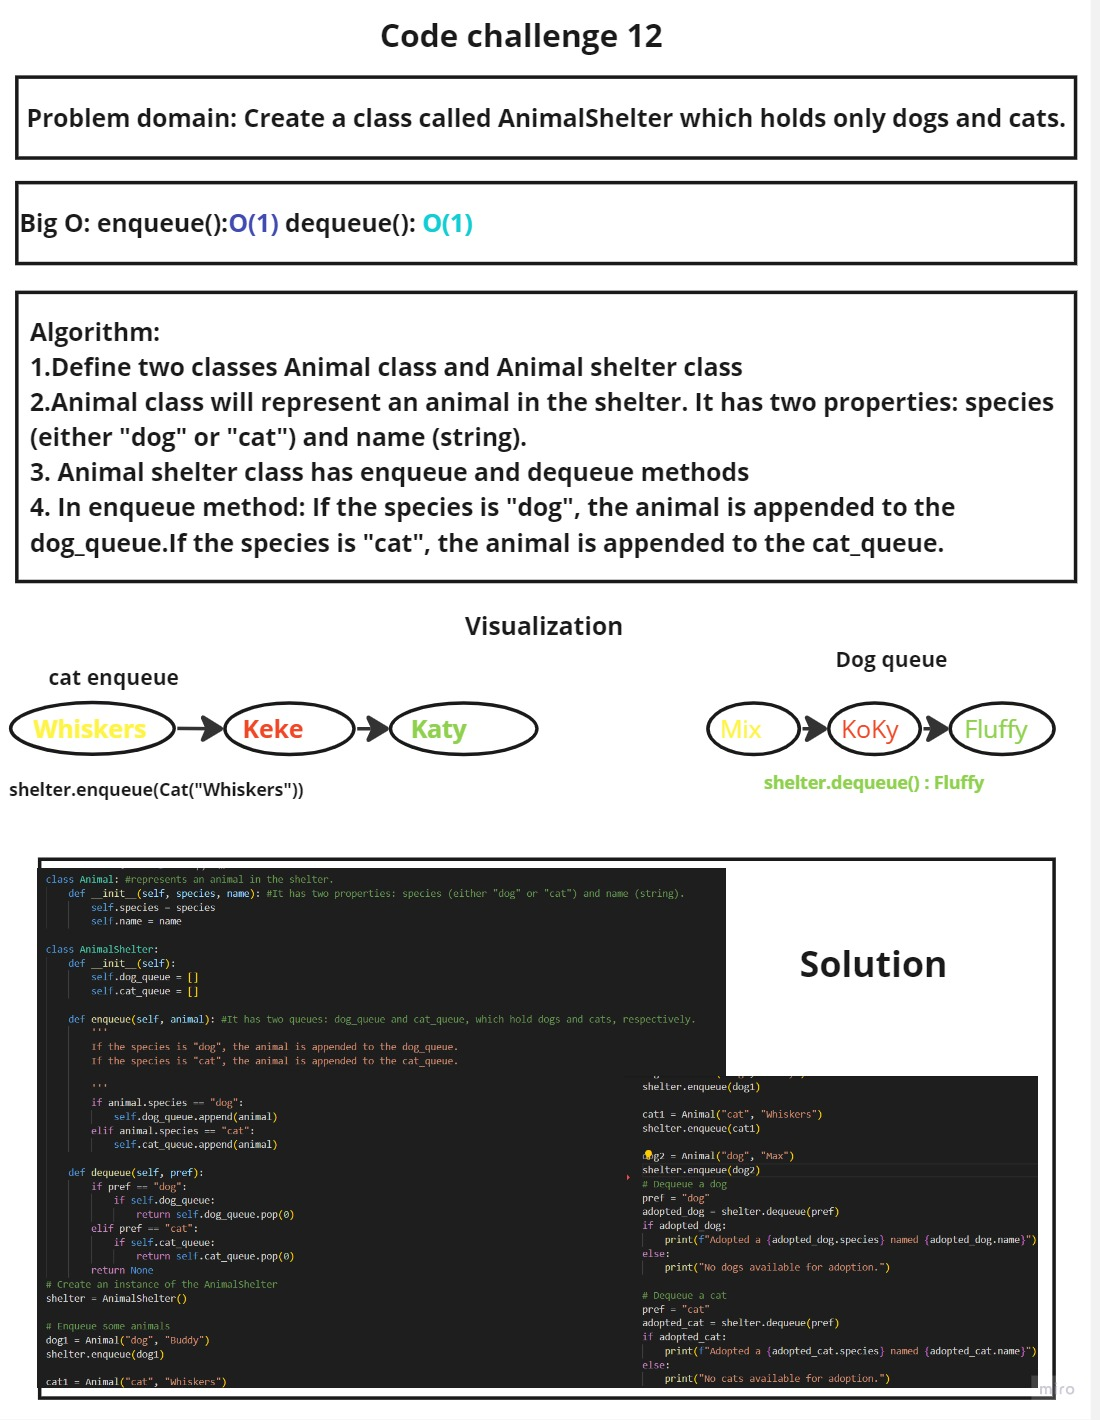
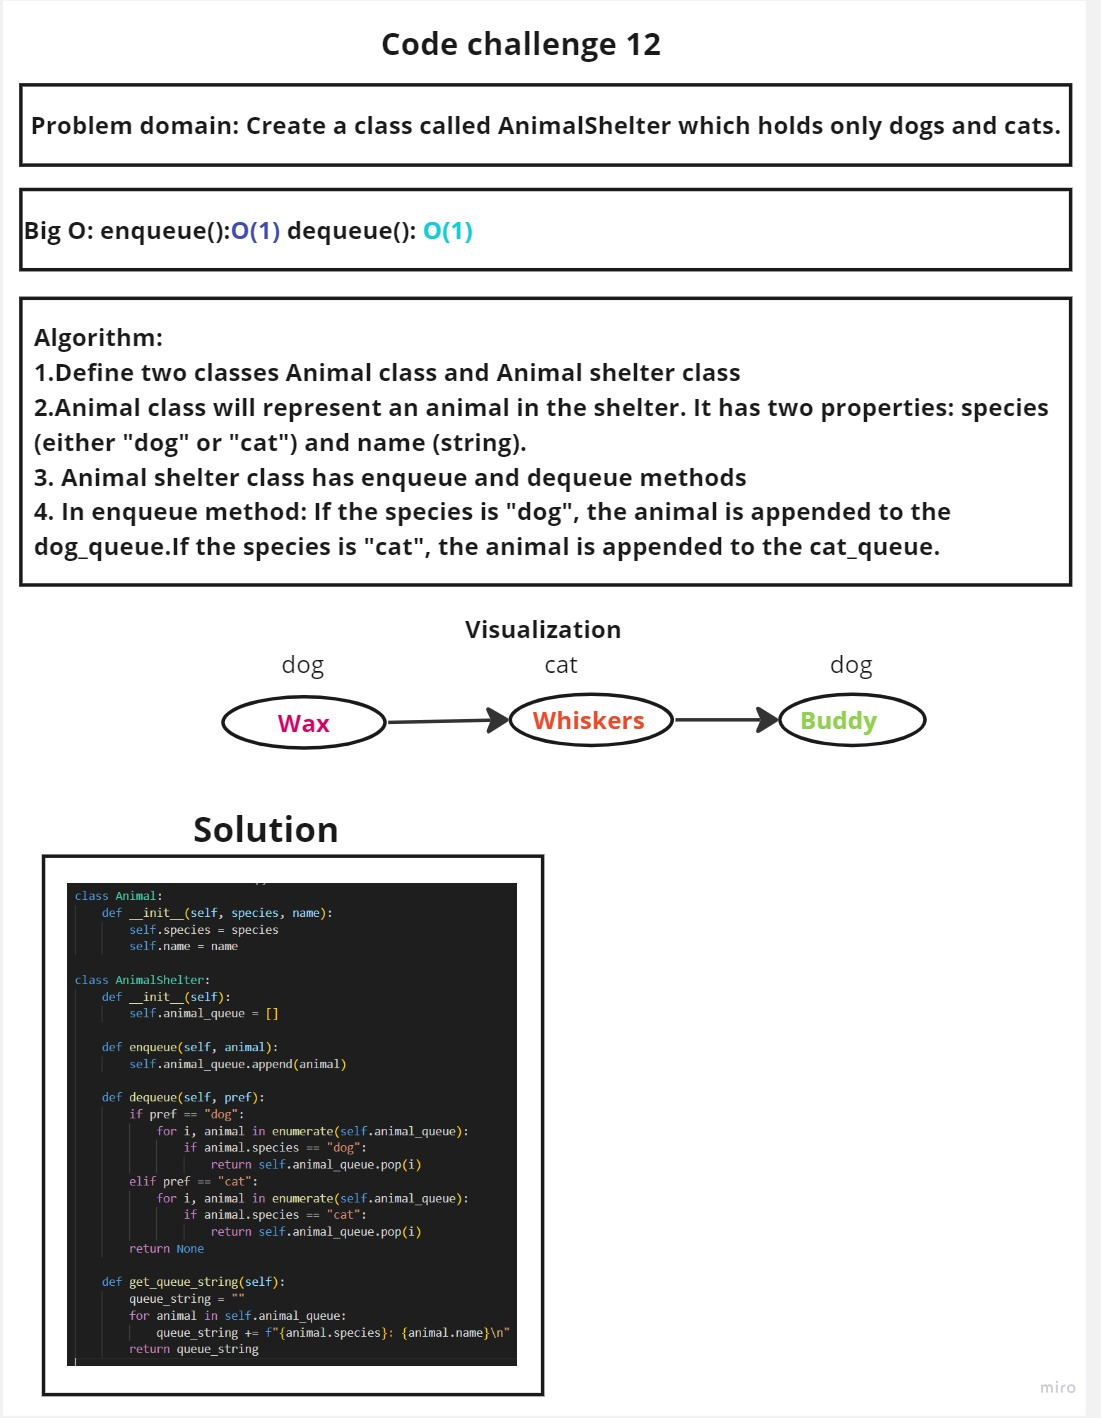
edit

diff --git a/DataStructure/StackAndQueue/CC12.py b/DataStructure/StackAndQueue/CC12.py
@@ -1,33 +1,33 @@
-class Animal: #represents an animal in the shelter.
-    def __init__(self, species, name): #It has two properties: species (either "dog" or "cat") and name (string).
+class Animal:
+    def __init__(self, species, name):
         self.species = species
         self.name = name
 
 class AnimalShelter:
     def __init__(self):
-        self.dog_queue = []
-        self.cat_queue = []
+        self.animal_queue = []
 
-    def enqueue(self, animal): #It has two queues: dog_queue and cat_queue, which hold dogs and cats, respectively.
-        '''
-        If the species is "dog", the animal is appended to the dog_queue.
-        If the species is "cat", the animal is appended to the cat_queue.
-
-        '''
-        if animal.species == "dog":
-            self.dog_queue.append(animal)
-        elif animal.species == "cat":
-            self.cat_queue.append(animal)
+    def enqueue(self, animal):
+        self.animal_queue.append(animal)
 
     def dequeue(self, pref):
         if pref == "dog":
-            if self.dog_queue:
-                return self.dog_queue.pop(0)
+            for i, animal in enumerate(self.animal_queue):
+                if animal.species == "dog":
+                    return self.animal_queue.pop(i)
         elif pref == "cat":
-            if self.cat_queue:
-                return self.cat_queue.pop(0)
+            for i, animal in enumerate(self.animal_queue):
+                if animal.species == "cat":
+                    return self.animal_queue.pop(i)
         return None
-# Create an instance of the AnimalShelter
+
+    def get_queue_string(self):
+        queue_string = ""
+        for animal in self.animal_queue:
+            queue_string += f"{animal.species}: {animal.name}\n"
+        return queue_string
+
+# Example usage
 shelter = AnimalShelter()
 
 # Enqueue some animals
@@ -39,18 +39,7 @@ shelter.enqueue(cat1)
 
 dog2 = Animal("dog", "Max")
 shelter.enqueue(dog2)
-# Dequeue a dog
-pref = "dog"
-adopted_dog = shelter.dequeue(pref)
-if adopted_dog:
-    print(f"Adopted a {adopted_dog.species} named {adopted_dog.name}")
-else:
-    print("No dogs available for adoption.")
 
-# Dequeue a cat
-pref = "cat"
-adopted_cat = shelter.dequeue(pref)
-if adopted_cat:
-    print(f"Adopted a {adopted_cat.species} named {adopted_cat.name}")
-else:
-    print("No cats available for adoption.")
+# Print the queue
+print("Animal Queue:")
+print(shelter.get_queue_string())

diff --git a/DataStructure/StackAndQueue/CC12.md b/DataStructure/StackAndQueue/CC12.md
@@ -6,36 +6,36 @@ I used two class one to represetn the animal in shelter and other contain method
 ```
 # Solution
 ```
-class Animal: #represents an animal in the shelter.
-    def __init__(self, species, name): #It has two properties: species (either "dog" or "cat") and name (string).
+class Animal:
+    def __init__(self, species, name):
         self.species = species
         self.name = name
 
 class AnimalShelter:
     def __init__(self):
-        self.dog_queue = []
-        self.cat_queue = []
+        self.animal_queue = []
 
-    def enqueue(self, animal): #It has two queues: dog_queue and cat_queue, which hold dogs and cats, respectively.
-        '''
-        If the species is "dog", the animal is appended to the dog_queue.
-        If the species is "cat", the animal is appended to the cat_queue.
-
-        '''
-        if animal.species == "dog":
-            self.dog_queue.append(animal)
-        elif animal.species == "cat":
-            self.cat_queue.append(animal)
+    def enqueue(self, animal):
+        self.animal_queue.append(animal)
 
     def dequeue(self, pref):
         if pref == "dog":
-            if self.dog_queue:
-                return self.dog_queue.pop(0)
+            for i, animal in enumerate(self.animal_queue):
+                if animal.species == "dog":
+                    return self.animal_queue.pop(i)
         elif pref == "cat":
-            if self.cat_queue:
-                return self.cat_queue.pop(0)
+            for i, animal in enumerate(self.animal_queue):
+                if animal.species == "cat":
+                    return self.animal_queue.pop(i)
         return None
-# Create an instance of the AnimalShelter
+
+    def get_queue_string(self):
+        queue_string = ""
+        for animal in self.animal_queue:
+            queue_string += f"{animal.species}: {animal.name}\n"
+        return queue_string
+
+# Example usage
 shelter = AnimalShelter()
 
 # Enqueue some animals
@@ -47,20 +47,9 @@ shelter.enqueue(cat1)
 
 dog2 = Animal("dog", "Max")
 shelter.enqueue(dog2)
-# Dequeue a dog
-pref = "dog"
-adopted_dog = shelter.dequeue(pref)
-if adopted_dog:
-    print(f"Adopted a {adopted_dog.species} named {adopted_dog.name}")
-else:
-    print("No dogs available for adoption.")
 
-# Dequeue a cat
-pref = "cat"
-adopted_cat = shelter.dequeue(pref)
-if adopted_cat:
-    print(f"Adopted a {adopted_cat.species} named {adopted_cat.name}")
-else:
-    print("No cats available for adoption.")
+# Print the queue
+print("Animal Queue:")
+print(shelter.get_queue_string())
 
 ```
